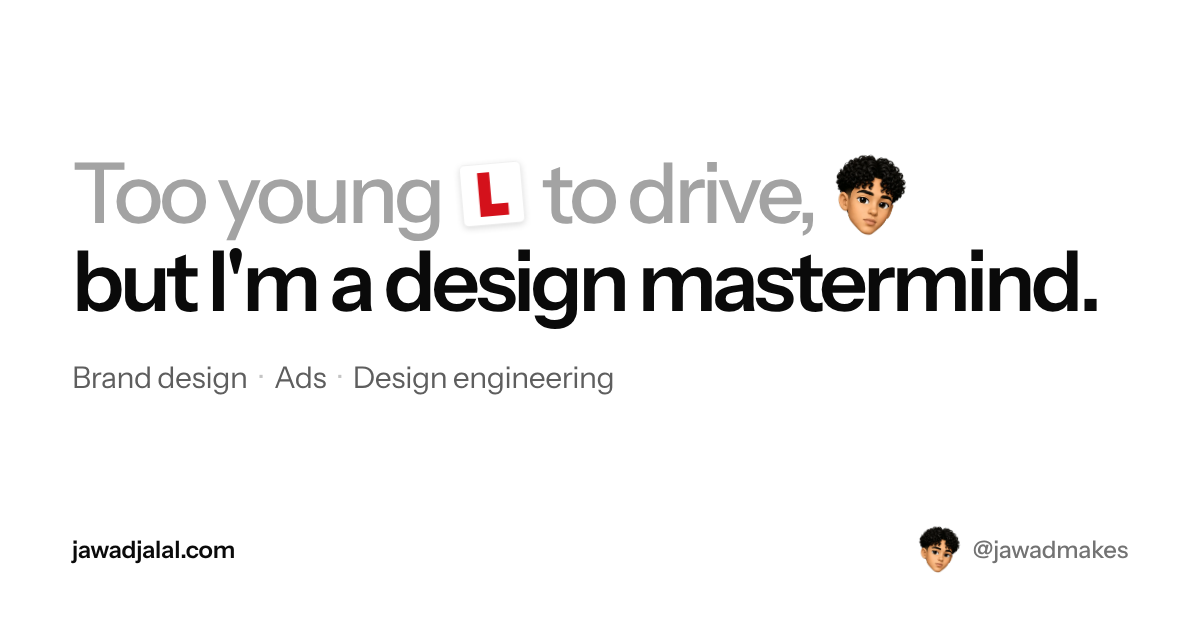
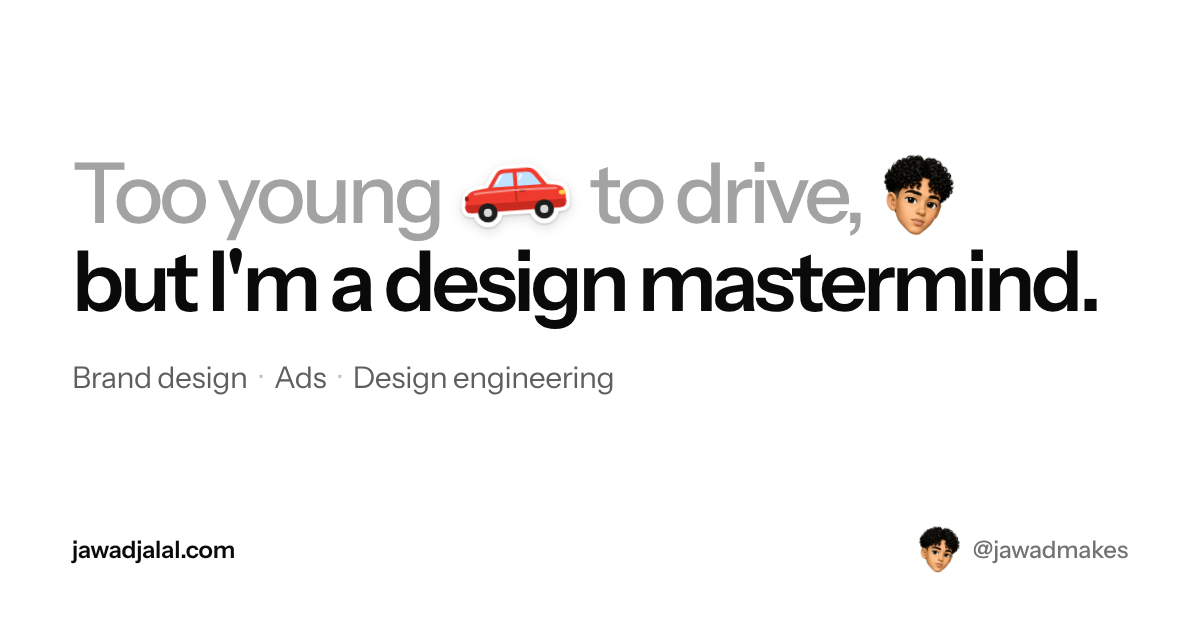
Home column: one big companies pill, nicer call and email buttons, a car instead of the L plate
The marquee of separate pills becomes one squircle pill split three ways, with a highlight that springs under
the hovered name and the role rising as a tag, so nothing shifts. The two buttons share the column evenly and
the dark one gets a light sweep. The headline's L plate is now a little red car that rolls on hover, on the
page and on the home share card.

Claude-Session: https://claude.ai/code/session_017qED2hYFcNyc7NEHok5jC5

Changed region(s): [[0.37, 0.2413, 0.8017, 0.3921]]

diff --git a/src/components/portfolio/portfolio.css b/src/components/portfolio/portfolio.css
@@ -156,13 +156,38 @@ html:has(.pf) body {
 .col-lead { font-weight: 500; color: #8f8f8f; }
 .col-main { font-weight: 620; color: var(--ink); }
 /* stickers sit on the baseline at about cap height and lean a few degrees, so the words keep their spacing */
-/* the L plate: a white plate, crisp red L, a hairline edge and a soft two-layer shadow */
+/* a square card sticker: a plate with a hairline edge and a soft two-layer shadow */
 .col-h1 .stk:not([data-cut]) { width: 0.74em; height: 0.74em; vertical-align: -0.02em; margin: 0 0.04em 0 0.06em; }
 .col-h1 .stk:not([data-cut]) img { border: 0; border-radius: 0.1em; box-shadow: 0 0.01em 0.02em rgb(0 0 0 / 0.2), 0 0.06em 0.12em rgb(0 0 0 / 0.12); }
+/* the car: a cut-out like the memoji but sized to the caps, sitting on the baseline; pointed at, it rolls forward and
+   back on a little bounce */
+.col-h1 .stk[data-kind="car"] { width: calc(0.84em * var(--ar)); height: 0.84em; vertical-align: -0.1em; margin: -0.1em 0.02em -0.1em 0.06em; transform-origin: 50% 100%; }
+.col-h1 .stk[data-kind="car"]:hover { animation: car-drive 900ms var(--ease); }
+@keyframes car-drive {
+  0% { transform: rotate(var(--tilt)); }
+  18% { transform: translateX(-0.04em) rotate(calc(var(--tilt) + 3deg)); }
+  48% { transform: translateX(0.14em) rotate(calc(var(--tilt) - 3deg)) translateY(-0.03em); }
+  70% { transform: translateX(0.06em) rotate(var(--tilt)); }
+  100% { transform: rotate(var(--tilt)); }
+}
 /* the memoji: the die-cut sticker, a head taller than the caps, hanging below the baseline a little, never moving the line */
 .col-h1 .stk[data-cut] { width: calc(1.18em * var(--ar)); height: 1.18em; vertical-align: -0.2em; margin: -0.4em 0 -0.2em 0.1em; transform-origin: 40% 100%; }
 
-.col-actions { display: flex; align-items: center; gap: 10px; }
+/* the two buttons share the column's width evenly, so "+ you" opens inside each one and never shoves its neighbour */
+.col-actions { display: grid; grid-template-columns: 1fr 1fr; gap: 10px; }
+.col-actions .sq { --sq: 18px; height: 56px; padding: 0 18px; font-size: 16.5px; }
+/* a soft band of light crosses the dark button when it is pointed at */
+.col-actions .sq:not(.sq-soft) { position: relative; overflow: hidden; isolation: isolate; }
+.col-actions .sq:not(.sq-soft)::after {
+  content: "";
+  position: absolute;
+  inset: 0;
+  z-index: -1;
+  background: linear-gradient(105deg, transparent 30%, rgb(255 255 255 / 0.14) 48%, transparent 66%); /* taste-skill-ignore: a light sweep, not a colour gradient */
+  translate: -110% 0;
+  pointer-events: none;
+}
+.col-actions .sq:not(.sq-soft):is(:hover, :focus-visible)::after { translate: 110% 0; transition: translate 760ms var(--ease); }
 .col-addr { margin: 10px 0 0; font-size: 13px; color: var(--ink-2); user-select: all; max-height: 0; opacity: 0; transform: translateY(-4px); transition: opacity 200ms var(--ease), transform 260ms var(--spring), max-height 260ms var(--ease); }
 .col-addr[data-on="true"] { max-height: 2em; opacity: 1; transform: none; }
 .col-second { font-size: 15px; font-weight: 500; color: var(--ink-2) !important; transition: color 160ms; }
@@ -190,37 +215,80 @@ html:has(.pf) body {
 .col-own a:hover img, .col-own a:focus-visible img { transform: rotate(-7deg) scale(1.1); }
 .col-own a:hover .col-own-go, .col-own a:focus-visible .col-own-go { opacity: 1; transform: none; }
 
-/* where he worked before: soft squircle pills drifting sideways, faded at both edges; pointing stops the drift and
-   opens the pill's role */
-.col-past { margin: 0 calc(-1 * var(--edge)); }
-.mq { display: flex; overflow: hidden; padding: 8px 0 10px var(--edge); -webkit-mask-image: linear-gradient(90deg, transparent, #000 var(--edge), #000 calc(100% - 64px), transparent); mask-image: linear-gradient(90deg, transparent, #000 var(--edge), #000 calc(100% - 64px), transparent); }
-.mq-run { flex: none; display: flex; gap: 10px; margin: 0; padding: 0 10px 0 0; list-style: none; animation: mq-slide 34s linear infinite; }
-.mq:hover .mq-run { animation-play-state: paused; }
-@keyframes mq-slide { to { transform: translateX(-100%); } }
-.mq-pill {
-  --sq: 13px;
-  display: inline-flex;
-  align-items: center;
-  gap: 8px;
-  height: 38px;
-  padding: 0 15px 0 10px;
+/* where he worked before: one big squircle pill split three ways. A soft highlight slides under the name being
+   pointed at (it springs from one to the next), the logo tips, and the role rises out of the pill as a dark tag, laid
+   over everything so nothing beside it moves. */
+.col-past { display: grid; gap: 10px; }
+.past-h { margin: 0; font-size: 13px; font-weight: 500; letter-spacing: -0.005em; color: var(--ink-3); }
+.past {
+  --sq: 18px;
+  --pad: 5px;
+  position: relative;
+  display: grid;
+  grid-template-columns: repeat(var(--n), minmax(0, 1fr));
+  margin: 0;
+  padding: var(--pad);
+  list-style: none;
   border-radius: calc(var(--sq) * 1.6);
   corner-shape: squircle;
   background: #fff;
-  white-space: nowrap;
-  font-size: 14.5px;
-  font-weight: 560;
-  letter-spacing: -0.012em;
-  box-shadow: inset 0 1px 0 #fff, inset 0 -2px 0 rgb(0 0 0 / 0.07), 0 0 0 1px rgb(0 0 0 / 0.09), 0 1px 1px rgb(0 0 0 / 0.08), 0 4px 10px -4px rgb(0 0 0 / 0.18);
-  transition: scale 250ms cubic-bezier(0.34, 1.45, 0.64, 1), translate 250ms cubic-bezier(0.34, 1.45, 0.64, 1), box-shadow 250ms var(--ease), background-color 150ms;
+  box-shadow: inset 0 1px 0 #fff, inset 0 -2px 0 rgb(0 0 0 / 0.07), 0 0 0 1px rgb(0 0 0 / 0.09), 0 1px 1px rgb(0 0 0 / 0.08), 0 6px 14px -6px rgb(0 0 0 / 0.18);
 }
-.mq-pill img { width: 20px; height: 20px; border-radius: 5px; object-fit: contain; }
-.mq-role { max-width: 0; overflow: hidden; opacity: 0; margin-left: -8px; color: var(--ink-3); font-weight: 450; transition: max-width 380ms cubic-bezier(0.34, 1.2, 0.64, 1), margin 380ms cubic-bezier(0.34, 1.2, 0.64, 1), opacity 180ms; }
-.mq-pill img { transition: transform 420ms var(--spring); }
-.mq-pill:hover, .mq-pill:focus-visible { scale: 1.04; translate: 0 -2px; background: #fcfcfc; box-shadow: inset 0 1px 0 #fff, inset 0 -2px 0 rgb(0 0 0 / 0.07), 0 0 0 1px rgb(0 0 0 / 0.1), 0 2px 2px rgb(0 0 0 / 0.08), 0 10px 18px -8px rgb(0 0 0 / 0.28); }
-.mq-pill:hover img, .mq-pill:focus-visible img { transform: rotate(-12deg) scale(1.12); }
-.mq-pill:active { translate: 0 0; scale: 1; }
-.mq-pill:hover .mq-role, .mq-pill:focus-visible .mq-role { max-width: 16em; margin-left: 0; opacity: 1; }
+@supports not (corner-shape: squircle) { .past { border-radius: var(--sq); } }
+.past-glow {
+  --at: 1;
+  position: absolute;
+  top: var(--pad);
+  bottom: var(--pad);
+  left: var(--pad);
+  width: calc((100% - 2 * var(--pad)) / var(--n));
+  border-radius: calc(var(--sq) - var(--pad));
+  background: var(--tint);
+  box-shadow: inset 0 1px 0 rgb(255 255 255 / 0.8), inset 0 0 0 1px rgb(0 0 0 / 0.04);
+  opacity: 0;
+  scale: 0.86;
+  translate: calc(var(--at) * 100%) 0;
+  transition: translate 460ms var(--spring), opacity 200ms var(--ease), scale 340ms var(--spring);
+  pointer-events: none;
+}
+.past:has(.past-it:hover, .past-it:focus-within) .past-glow { opacity: 1; scale: 1; }
+.past:has(.past-it:nth-child(2):is(:hover, :focus-within)) .past-glow { --at: 0; }
+.past:has(.past-it:nth-child(3):is(:hover, :focus-within)) .past-glow { --at: 1; }
+.past:has(.past-it:nth-child(4):is(:hover, :focus-within)) .past-glow { --at: 2; }
+.past-it { position: relative; min-width: 0; }
+.past-it a { position: relative; display: flex; align-items: center; justify-content: center; gap: 8px; height: 48px; padding: 0 8px; }
+.past-it img { flex: none; width: 22px; height: 22px; border-radius: 6px; object-fit: contain; transition: transform 460ms var(--spring); }
+.past-name { overflow: hidden; text-overflow: ellipsis; white-space: nowrap; font-size: 15px; font-weight: 580; letter-spacing: -0.015em; transition: transform 380ms var(--spring); }
+.past-it a:hover img, .past-it a:focus-visible img { transform: rotate(-12deg) scale(1.16); }
+.past-it a:hover .past-name, .past-it a:focus-visible .past-name { transform: translateX(1px); }
+.past-it a:active img { transform: rotate(-6deg) scale(0.96); transition-duration: 120ms; }
+.past-role {
+  position: absolute;
+  z-index: 4;
+  bottom: calc(100% + var(--pad) + 8px);
+  left: 50%;
+  padding: 7px 11px;
+  border-radius: 10px;
+  background: #1a1a1a;
+  color: #fff;
+  font-size: 12.5px;
+  font-weight: 500;
+  letter-spacing: -0.005em;
+  line-height: 1;
+  white-space: nowrap;
+  box-shadow: 0 6px 16px -6px rgb(0 0 0 / 0.4);
+  opacity: 0;
+  translate: -50% 6px;
+  scale: 0.9;
+  transform-origin: 50% 100%;
+  transition: opacity 160ms var(--ease), translate 380ms var(--spring), scale 380ms var(--spring);
+  pointer-events: none;
+}
+/* the ends keep their tag inside the column */
+.past-it:nth-child(2) .past-role { left: 0; translate: 0 6px; transform-origin: 20% 100%; }
+.past-it:last-child .past-role { left: auto; right: 0; translate: 0 6px; transform-origin: 80% 100%; }
+.past-it a:hover .past-role, .past-it a:focus-visible .past-role { opacity: 1; scale: 1; translate: -50% 0; }
+.past-it:nth-child(2) a:is(:hover, :focus-visible) .past-role, .past-it:last-child a:is(:hover, :focus-visible) .past-role { translate: 0 0; }
 
 /* the column is one stack on an even rhythm: head and companies, the marquee, then the reply at the foot */
 @media (min-width: 821px) {
@@ -521,8 +589,9 @@ html:has(.pf) body {
 }
 
 @media (prefers-reduced-motion: reduce) {
-  .mq-run { animation: none; }
-  .mq { overflow-x: auto; scrollbar-width: none; }
+  .past-glow, .past-role, .past-it img, .past-name { transition: none !important; }
+  .col-actions .sq::after { display: none; }
+  .col-h1 .stk[data-kind="car"]:hover { animation: none; }
   .cal-wait { animation: none; }
   .xpost, .xpost-item, .sq, .stk, .col-float, .tile, .tile img, .tile-cap, .story .sl, .story-cta { transition: none !important; }
   .xpost-bar { animation-duration: 9000ms !important; }

diff --git a/src/content/story.ts b/src/content/story.ts
@@ -7,24 +7,24 @@ import { BOOK, EMAIL } from "@/components/felt/copy";
 /*
   Headline, his words (13 Nov, after seeing it live): "Too young to drive," / "but I'm a design mastermind." Exactly
   two lines at every width, both in ink, the first a touch lighter. His memoji on line one, and one more sticker that
-  means something: an L plate. The earlier two-sentence version is kept as HEADLINE_ALT and shows with ?h=alt.
+  means something: a little red car (his pick, 14 Nov, over the L plate it replaced). The earlier two-sentence version is kept as HEADLINE_ALT and shows with ?h=alt.
 */
 const MEMOJI = { pic: "/design/jawad-die.webp", alt: "Jawad's memoji", cut: true, w: 697, h: 781, tilt: 5 } as const;
-const LPLATE = { pic: "/work/2026-11/sticker-lplate.svg", alt: "an L plate", w: 120, h: 120, tilt: -5 } as const;
+const CAR = { pic: "/work/2026-11/sticker-car.svg", alt: "a little red car", w: 156, h: 90, tilt: -4, cut: true, kind: "car" } as const;
 
 /** One array per line of type; each line is set on one line, never rewrapped. A picture is a sticker: `cut` is a
  *  cut-out with its own outline, otherwise a die-cut card with a white edge. */
 export const HEADLINE = {
-  lead: [[{ t: "Too young" }, LPLATE, { t: "to drive," }, MEMOJI]],
+  lead: [[{ t: "Too young" }, CAR, { t: "to drive," }, MEMOJI]],
   main: [[{ t: "but I'm a design mastermind." }]],
 } as const;
 
 export const HEADLINE_ALT = {
-  lead: [[{ t: "Too young" }, LPLATE, { t: "to drive." }, MEMOJI]],
+  lead: [[{ t: "Too young" }, CAR, { t: "to drive." }, MEMOJI]],
   main: [[{ t: "Old enough to be a design mastermind." }]],
 } as const;
 
-export type Bit = { t: string } | { pic: string; alt: string; w: number; h: number; tilt: number; cut?: boolean; tuck?: boolean };
+export type Bit = { t: string } | { pic: string; alt: string; w: number; h: number; tilt: number; cut?: boolean; tuck?: boolean; kind?: string };
 
 /** "call me" goes to the call page, which holds the booking calendar; BOOKING is the Cal.com page itself, the
  *  fallback inside it. */
@@ -42,7 +42,7 @@ export const TIMELINE: { name: string; role: string; logo: string; href: string 
   { name: "Ignura", role: "founder, ad and brand studio", logo: "/logos/ignura.png", href: "https://ignura.com" },
 ];
 
-/** Places he has worked before, drifting past in the column's marquee. Roles as he gave them; Bevel's in his words. */
+/** Places he has worked before, set side by side in one pill in the column. Roles as he gave them; Bevel's in his words. */
 export const PAST: { name: string; role: string; logo: string; href: string }[] = [
   { name: "Okara", role: "product intern", logo: "/logos/okara.png", href: "https://okara.ai" },
   { name: "MenuFit", role: "product designer", logo: "/logos/menufit-bag-128.webp", href: "https://menufit.com" },

diff --git a/src/components/portfolio/StoryColumn.tsx b/src/components/portfolio/StoryColumn.tsx
@@ -1,7 +1,7 @@
 "use client";
 
 // The fixed left column, one composed stack: the two-line headline with his stickers in it, the two squircle buttons,
-// what he does, his two companies linked out, a slow marquee of the places he worked before, and one reply from X at
+// what he does, his two companies linked out, one big pill of the places he worked before, and one reply from X at
 // a time, set as an X post. On a phone it becomes the header block over the wall, and a small hire button stays at
 // the bottom of the screen once the header's own has gone.
 
@@ -101,27 +101,25 @@ function Replies({ replies, to }: { replies: Reply[]; to: string }) {
   );
 }
 
-/** The places he worked before, as soft squircle pills drifting sideways. Pointing at one stops the drift and opens
- *  its role beside the name. The list is drawn twice so the loop has no seam. */
+/** The places he worked before, in one big squircle pill split three ways. A soft highlight slides under whichever
+ *  name is pointed at (pure CSS, :has), its logo tips, and its role rises out of the pill as a small dark tag, so
+ *  nothing beside it ever moves. Nothing drifts. */
 function Past({ past }: { past: Job[] }) {
-  const run = [...past, ...past];
   return (
     <section className="col-past" aria-label="Where I worked before">
-      <div className="mq">
-        {[0, 1].map((copy) => (
-          <ul key={copy} className="mq-run" aria-hidden={copy === 1}>
-            {run.map((j, i) => (
-              <li key={i}>
-                <a className="mq-pill" href={j.href} target="_blank" rel="noopener" tabIndex={copy === 1 || i >= past.length ? -1 : 0}>
-                  <img src={j.logo} alt="" width={20} height={20} />
-                  <span className="mq-name">{j.name}</span>
-                  <span className="mq-role">{j.role}</span>
-                </a>
-              </li>
-            ))}
-          </ul>
+      <h2 className="past-h">Before</h2>
+      <ul className="past" style={{ "--n": past.length } as React.CSSProperties}>
+        <li className="past-glow" aria-hidden="true" />
+        {past.map((j) => (
+          <li key={j.name} className="past-it">
+            <a href={j.href} target="_blank" rel="noopener" aria-label={`${j.name}, ${j.role}`}>
+              <img src={j.logo} alt="" width={22} height={22} />
+              <span className="past-name">{j.name}</span>
+              <span className="past-role" aria-hidden="true">{j.role}</span>
+            </a>
+          </li>
         ))}
-      </div>
+      </ul>
     </section>
   );
 }

diff --git a/src/components/portfolio/Sticker.tsx b/src/components/portfolio/Sticker.tsx
@@ -2,7 +2,7 @@
 // border, tilted a few degrees, with a soft shadow, overlapping the letters a little. It wobbles when you point at it.
 // `tuck` pulls it over the sticker before it, the way stickers pile up on a laptop lid.
 
-export type StickerPic = { pic: string; alt: string; w: number; h: number; tilt: number; cut?: boolean; tuck?: boolean };
+export type StickerPic = { pic: string; alt: string; w: number; h: number; tilt: number; cut?: boolean; tuck?: boolean; kind?: string };
 
 export function Sticker({ s, eager }: { s: StickerPic; eager?: boolean }) {
   return (
@@ -10,6 +10,7 @@ export function Sticker({ s, eager }: { s: StickerPic; eager?: boolean }) {
       className="stk"
       data-cut={s.cut ? "" : undefined}
       data-tuck={s.tuck ? "" : undefined}
+      data-kind={s.kind}
       style={{ "--tilt": `${s.tilt}deg`, "--ar": s.w / s.h } as React.CSSProperties}
     >
       <img src={s.pic} alt={s.alt} width={s.w} height={s.h} loading={eager ? "eager" : "lazy"} decoding="async" />
